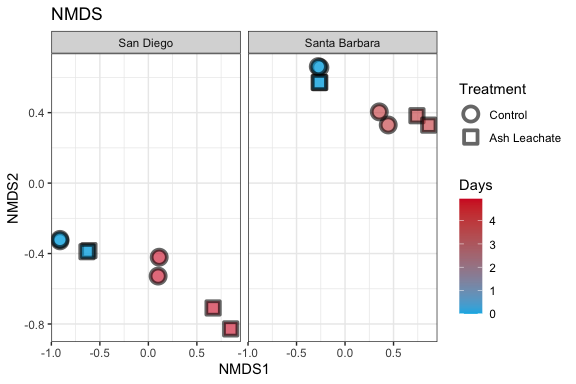
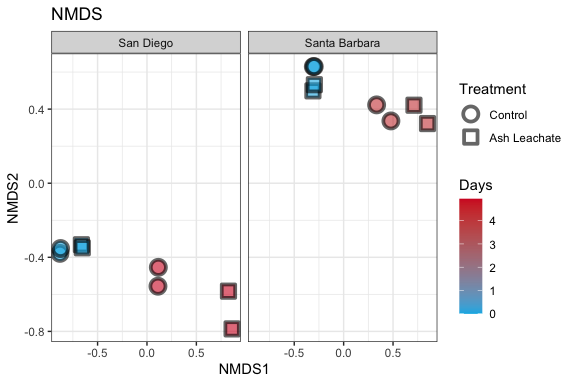
commit phyloseq assignment 11/18/21

diff --git a/Scripts/211010_Phyloseq_submission.md b/Scripts/211010_Phyloseq_submission.md
@@ -388,59 +388,57 @@ nmds_min <- ordinate(ps_min, method = "NMDS",  distance = "bray") # stress = 0.0
 
     ## Square root transformation
     ## Wisconsin double standardization
-    ## Run 0 stress 0.0384761 
-    ## Run 1 stress 0.162918 
-    ## Run 2 stress 0.03847611 
-    ## ... Procrustes: rmse 1.713854e-05  max resid 3.68036e-05 
-    ## ... Similar to previous best
-    ## Run 3 stress 0.0384761 
-    ## ... Procrustes: rmse 6.606745e-06  max resid 1.418504e-05 
-    ## ... Similar to previous best
-    ## Run 4 stress 0.3046417 
-    ## Run 5 stress 0.03847611 
-    ## ... Procrustes: rmse 2.034711e-05  max resid 4.481165e-05 
-    ## ... Similar to previous best
-    ## Run 6 stress 0.0384761 
+    ## Run 0 stress 0.04483483 
+    ## Run 1 stress 0.174781 
+    ## Run 2 stress 0.04483483 
     ## ... New best solution
-    ## ... Procrustes: rmse 1.080271e-05  max resid 2.286382e-05 
+    ## ... Procrustes: rmse 1.468714e-06  max resid 2.939261e-06 
     ## ... Similar to previous best
-    ## Run 7 stress 0.0384761 
-    ## ... Procrustes: rmse 8.099644e-06  max resid 1.704645e-05 
+    ## Run 3 stress 0.04483483 
+    ## ... Procrustes: rmse 2.036675e-06  max resid 4.282906e-06 
     ## ... Similar to previous best
-    ## Run 8 stress 0.0384761 
-    ## ... Procrustes: rmse 6.102627e-06  max resid 1.104295e-05 
+    ## Run 4 stress 0.3197986 
+    ## Run 5 stress 0.04483483 
+    ## ... Procrustes: rmse 9.91949e-07  max resid 2.089411e-06 
     ## ... Similar to previous best
-    ## Run 9 stress 0.0384761 
-    ## ... Procrustes: rmse 7.326576e-06  max resid 1.531521e-05 
+    ## Run 6 stress 0.04483483 
+    ## ... Procrustes: rmse 2.569033e-06  max resid 5.352974e-06 
     ## ... Similar to previous best
-    ## Run 10 stress 0.0384761 
-    ## ... Procrustes: rmse 4.912316e-06  max resid 1.036117e-05 
+    ## Run 7 stress 0.04483483 
+    ## ... Procrustes: rmse 3.835202e-06  max resid 7.917893e-06 
     ## ... Similar to previous best
-    ## Run 11 stress 0.0384761 
-    ## ... Procrustes: rmse 5.677397e-06  max resid 1.224024e-05 
+    ## Run 8 stress 0.04483483 
+    ## ... Procrustes: rmse 1.808762e-06  max resid 3.902639e-06 
     ## ... Similar to previous best
-    ## Run 12 stress 0.162918 
-    ## Run 13 stress 0.0384761 
-    ## ... Procrustes: rmse 8.957277e-06  max resid 1.925748e-05 
+    ## Run 9 stress 0.04483483 
+    ## ... Procrustes: rmse 5.487316e-07  max resid 9.718967e-07 
     ## ... Similar to previous best
-    ## Run 14 stress 0.0384761 
-    ## ... Procrustes: rmse 1.221219e-06  max resid 3.331252e-06 
+    ## Run 10 stress 0.04483484 
+    ## ... Procrustes: rmse 8.571112e-06  max resid 1.730373e-05 
     ## ... Similar to previous best
-    ## Run 15 stress 0.03847611 
-    ## ... Procrustes: rmse 2.884127e-05  max resid 6.061299e-05 
+    ## Run 11 stress 0.04483483 
+    ## ... Procrustes: rmse 1.322656e-06  max resid 2.37637e-06 
     ## ... Similar to previous best
-    ## Run 16 stress 0.0384761 
-    ## ... Procrustes: rmse 1.659468e-05  max resid 3.530774e-05 
+    ## Run 12 stress 0.174781 
+    ## Run 13 stress 0.04483483 
+    ## ... Procrustes: rmse 2.97407e-06  max resid 6.281312e-06 
     ## ... Similar to previous best
-    ## Run 17 stress 0.0384761 
-    ## ... Procrustes: rmse 1.362138e-06  max resid 2.020502e-06 
+    ## Run 14 stress 0.2758772 
+    ## Run 15 stress 0.04483483 
+    ## ... Procrustes: rmse 3.619888e-06  max resid 7.496934e-06 
     ## ... Similar to previous best
-    ## Run 18 stress 0.3658208 
-    ## Run 19 stress 0.03847611 
-    ## ... Procrustes: rmse 2.119552e-05  max resid 4.501822e-05 
+    ## Run 16 stress 0.04483483 
+    ## ... Procrustes: rmse 1.058356e-06  max resid 2.271466e-06 
     ## ... Similar to previous best
-    ## Run 20 stress 0.0384761 
-    ## ... Procrustes: rmse 3.603452e-06  max resid 7.895703e-06 
+    ## Run 17 stress 0.04483483 
+    ## ... Procrustes: rmse 1.542963e-06  max resid 3.254704e-06 
+    ## ... Similar to previous best
+    ## Run 18 stress 0.3658214 
+    ## Run 19 stress 0.04483483 
+    ## ... Procrustes: rmse 3.329236e-06  max resid 6.971648e-06 
+    ## ... Similar to previous best
+    ## Run 20 stress 0.04483483 
+    ## ... Procrustes: rmse 1.181675e-06  max resid 2.588868e-06 
     ## ... Similar to previous best
     ## *** Solution reached
 
@@ -645,9 +643,9 @@ A7: Oceanospirillales, Campylobacterales, and Alteromonadales all
 increase in relative abundance in the ash leachate treatment, but not
 really for the control. There were no noticable decreases in the ash
 leachate that did not occur in the control as well, but the SAR11 clade
-decreased in abundance **more** in the ash leachate treatment than the
-control. Synechococcales also decreased in relative abundance in the ash
-leachate **more** than the control.
+had a larger decrease in abundance in the ash leachate treatment than
+the control. Synechococcales also had a larger decrease in relative
+abundance in the ash leachate than the control.
 
 Everything shown here is just a snapshot of what you can look at with
 your community composition data. There are many other resources you can
